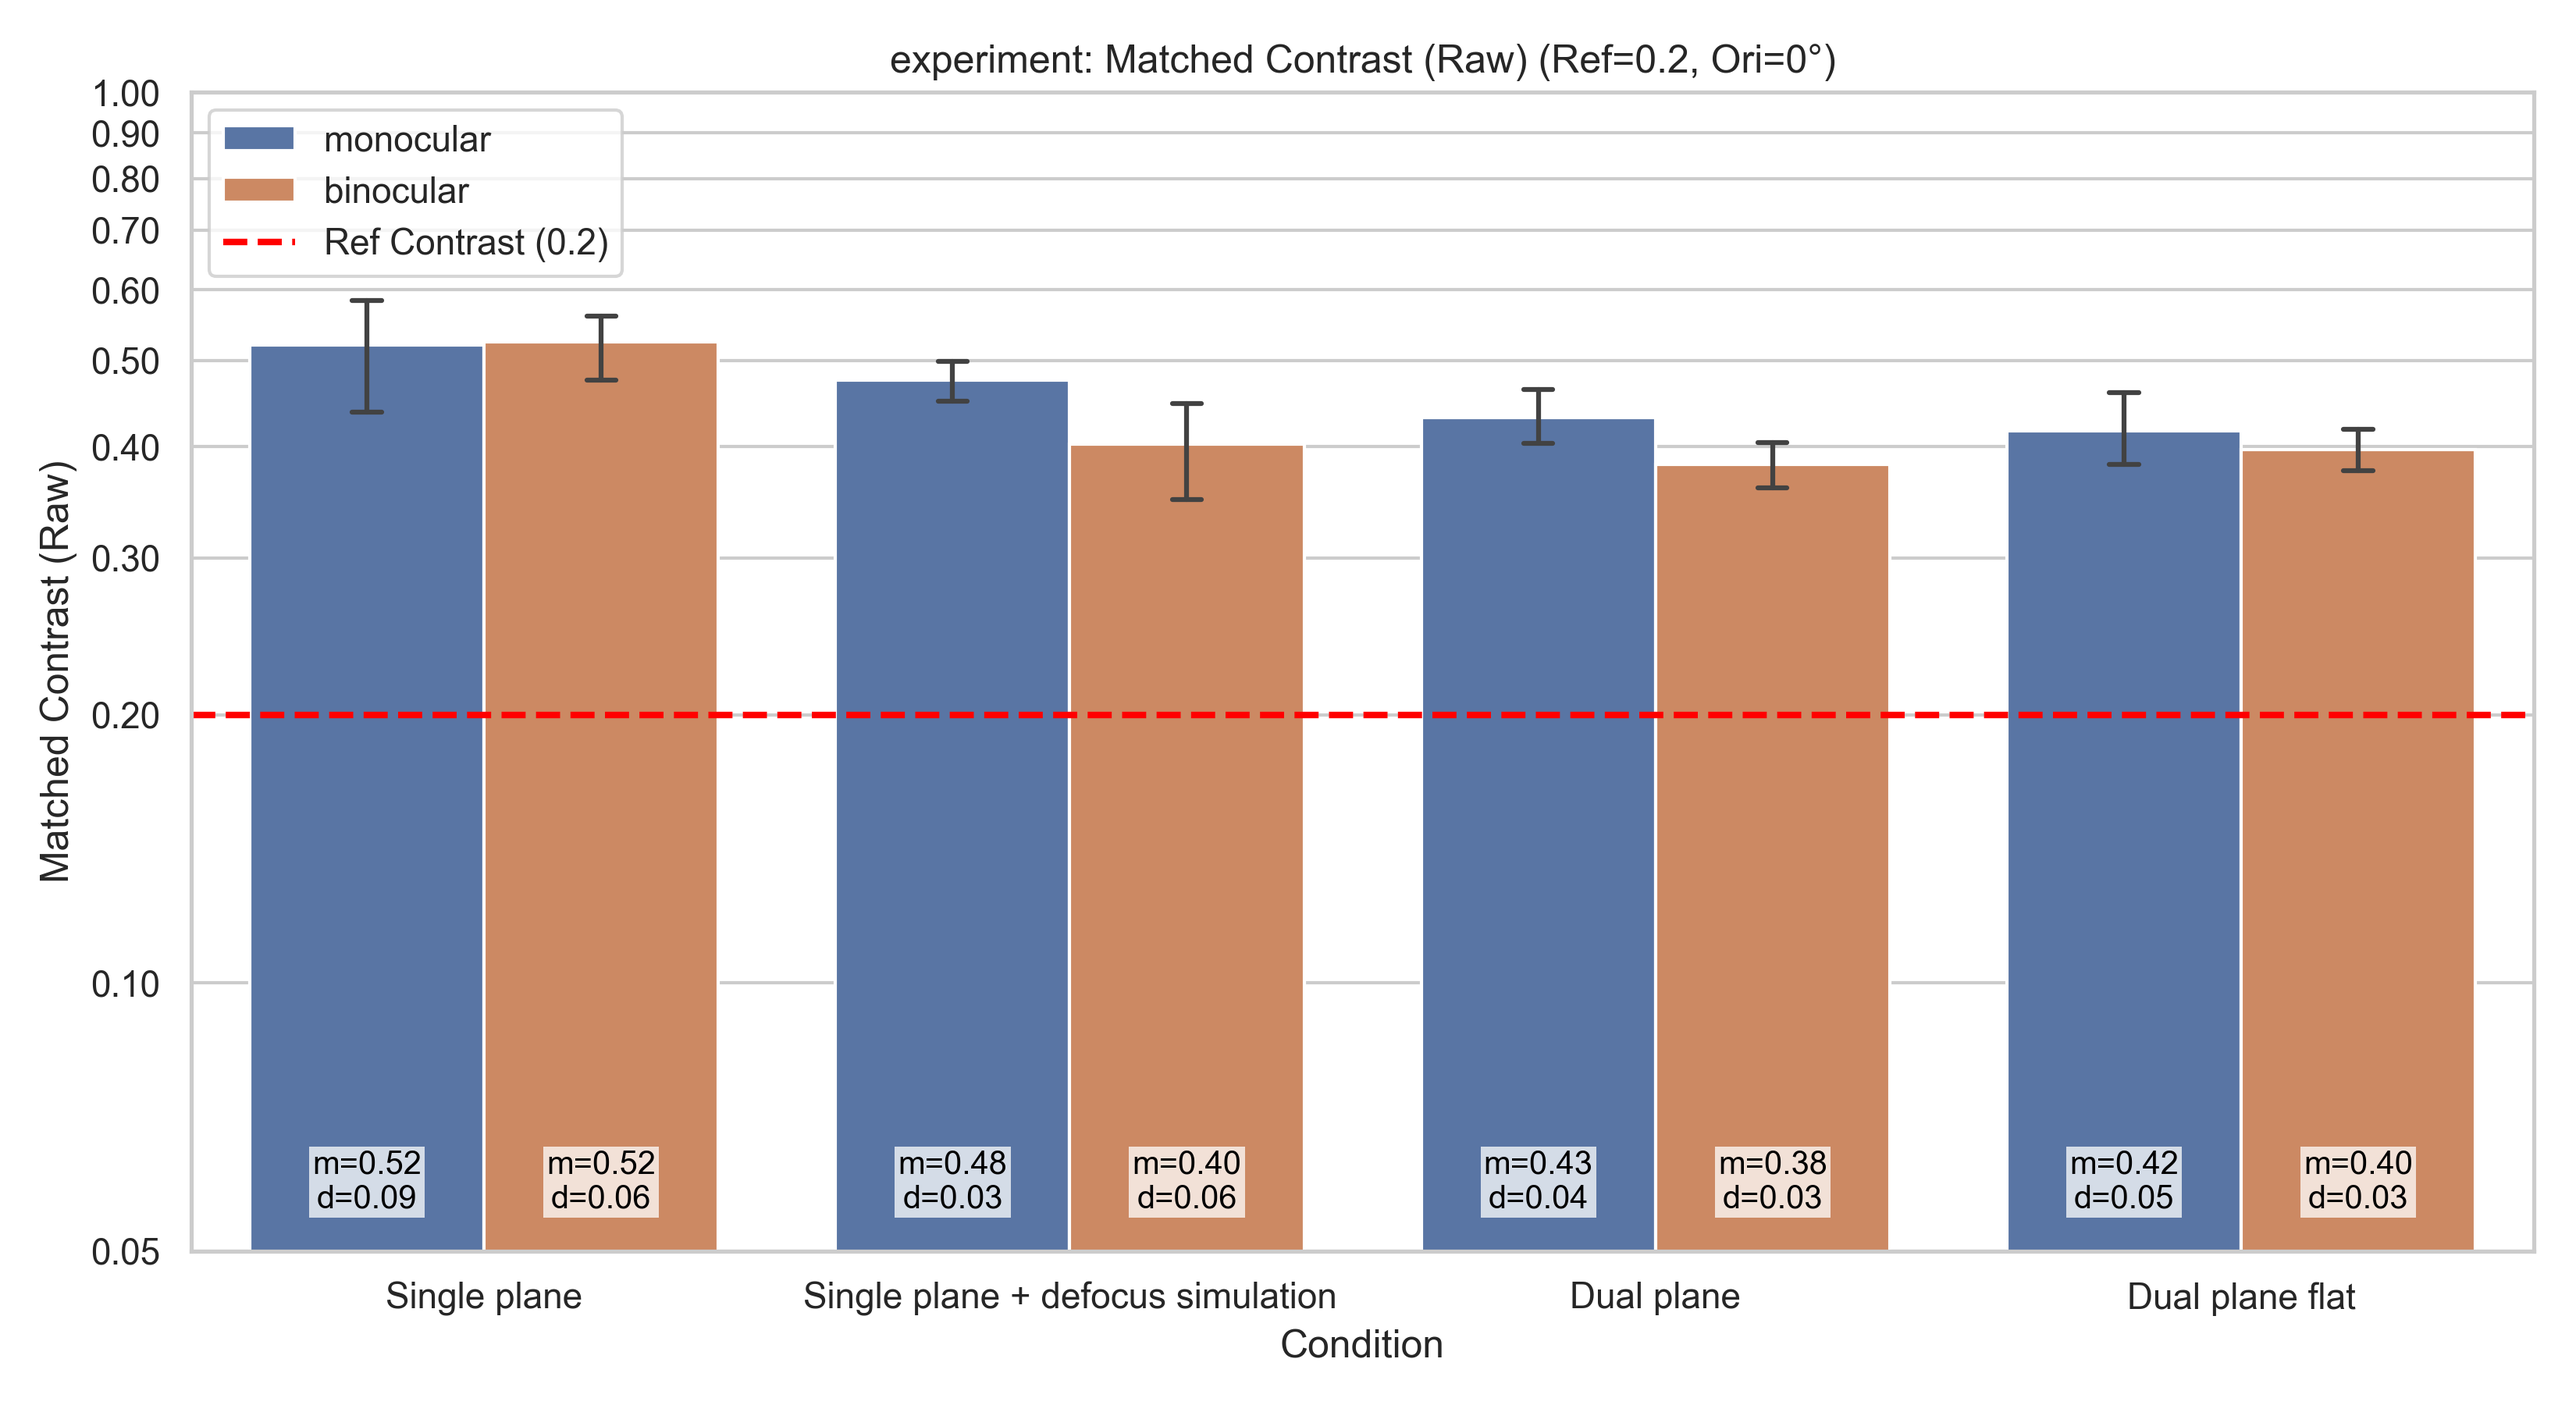
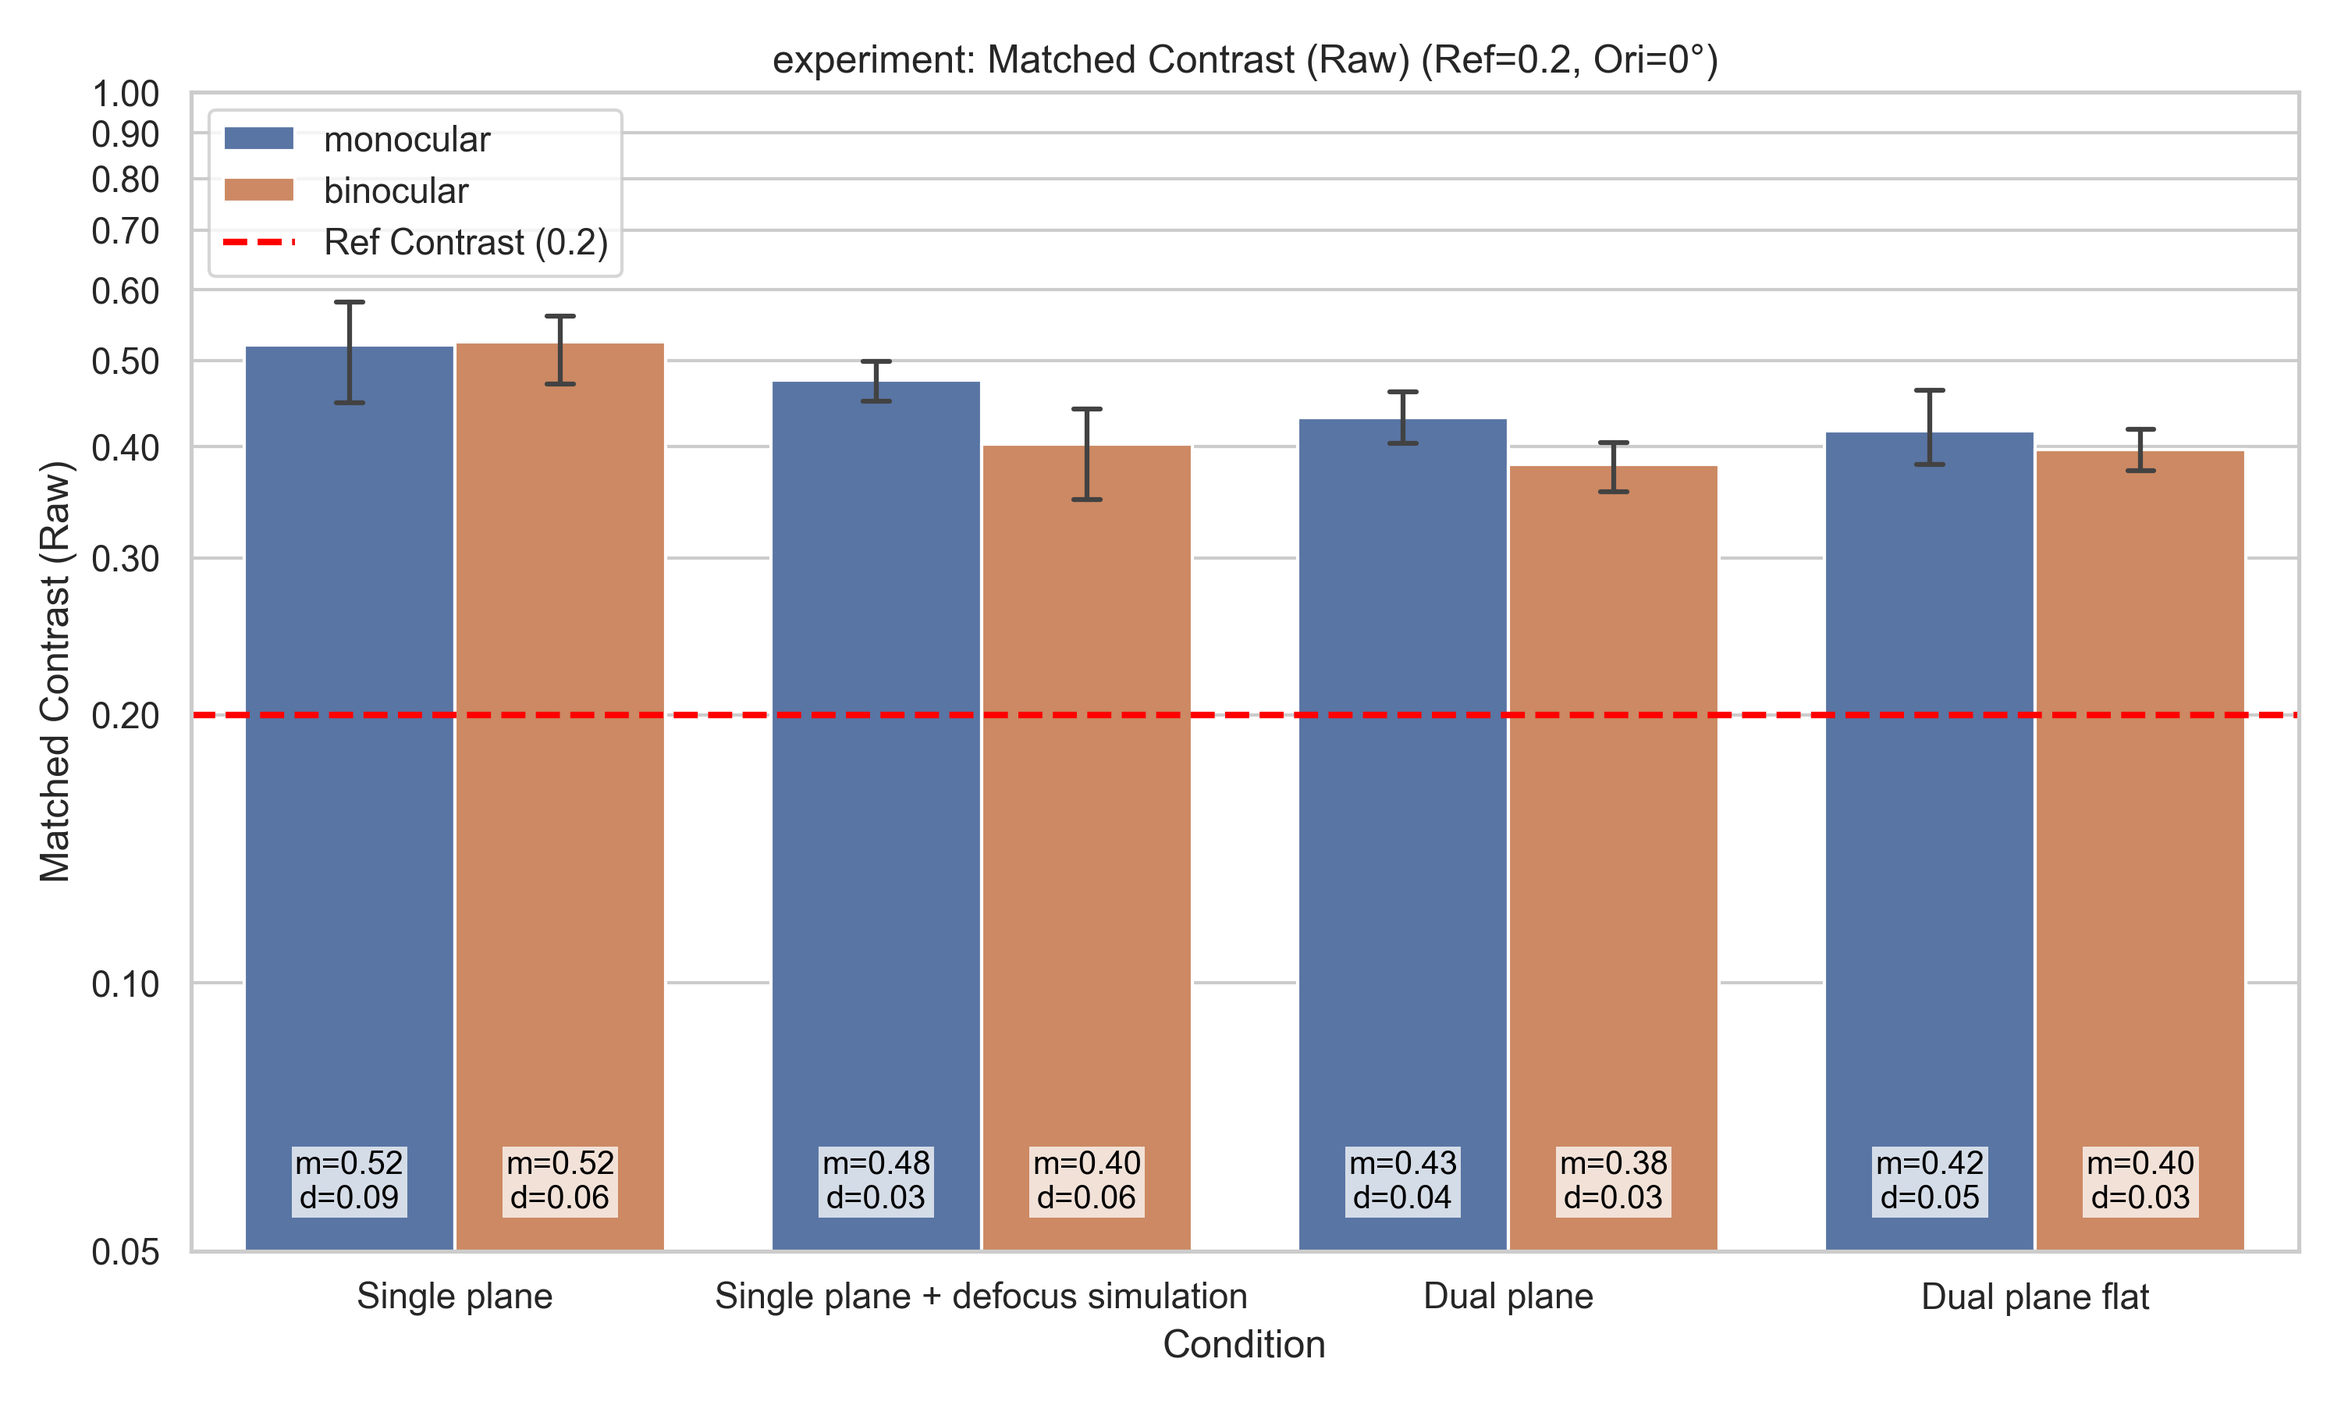
fix: 解析結果の図の大きさ変更

diff --git a/src/experiment/pre_analyze/pre_analyze_matching.py b/src/experiment/pre_analyze/pre_analyze_matching.py
@@ -241,7 +241,7 @@ def save_outputs(df, output_dir):
                     continue
 
                 for value_column, suffix, ylabel in bar_specs:
-                    fig, ax = plt.subplots(figsize=(11, 6))
+                    fig, ax = plt.subplots(figsize=(10, 6))
                     sns.barplot(
                         data=plot_df,
                         x="Condition",
